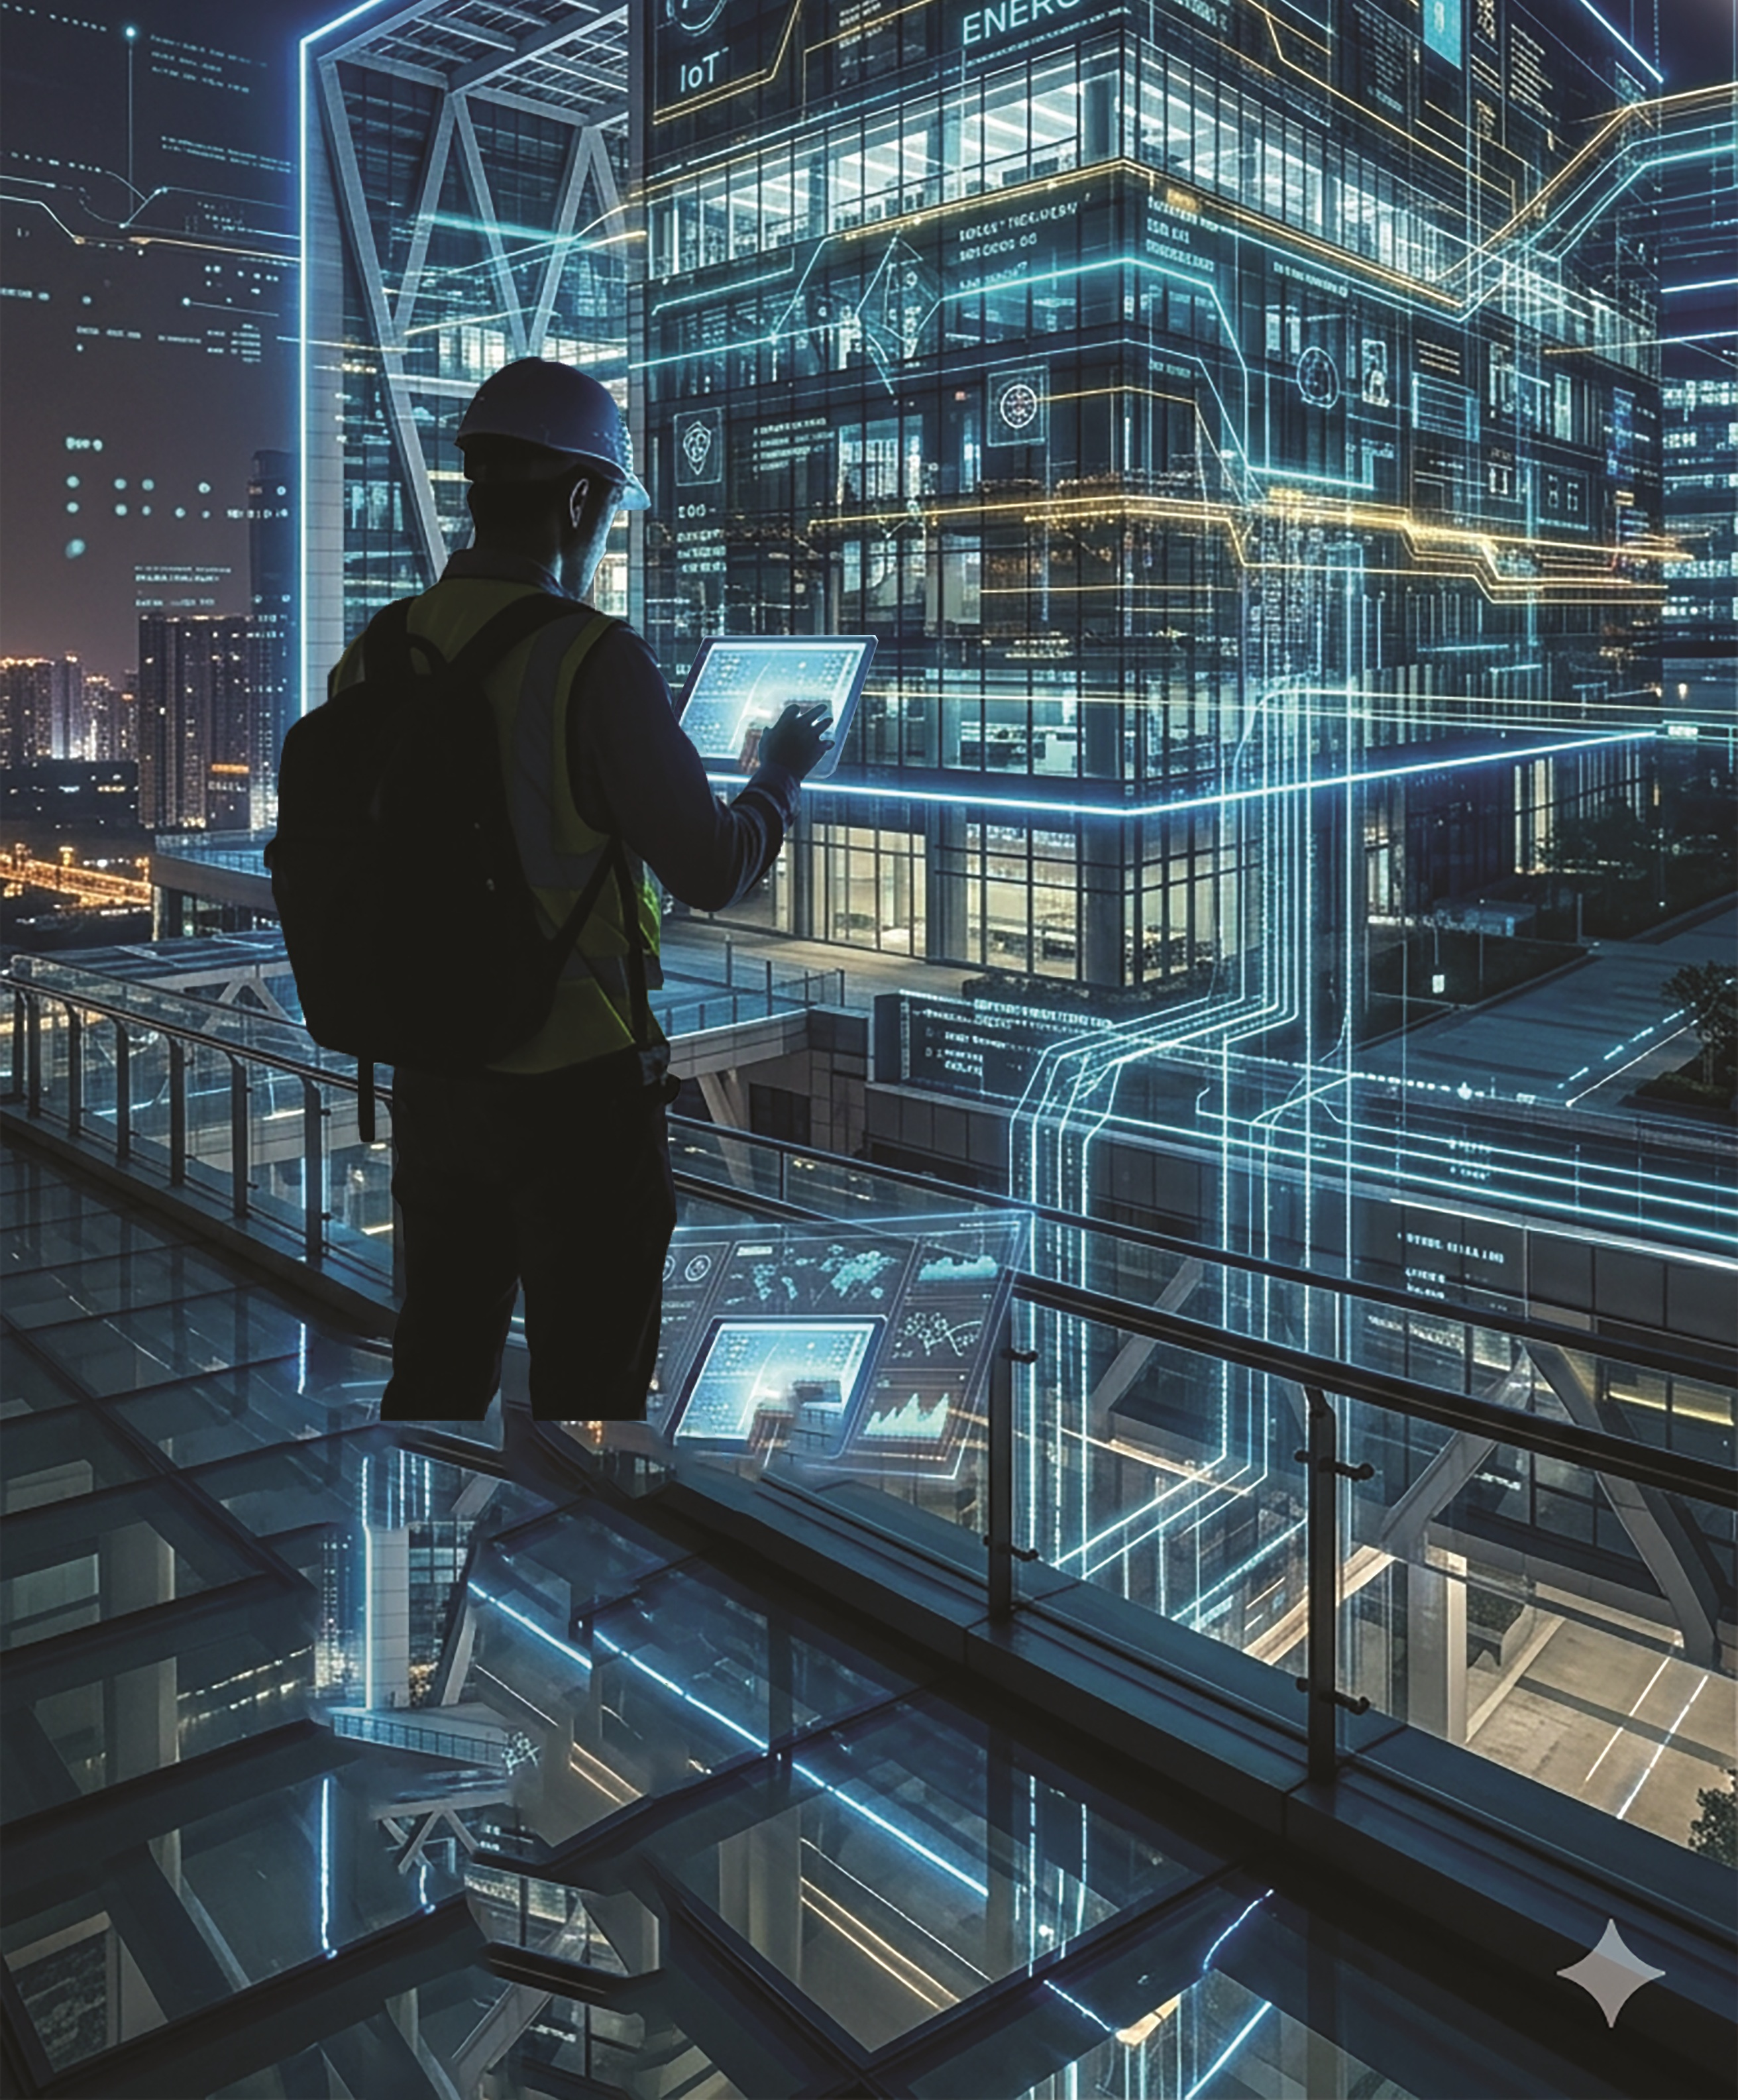
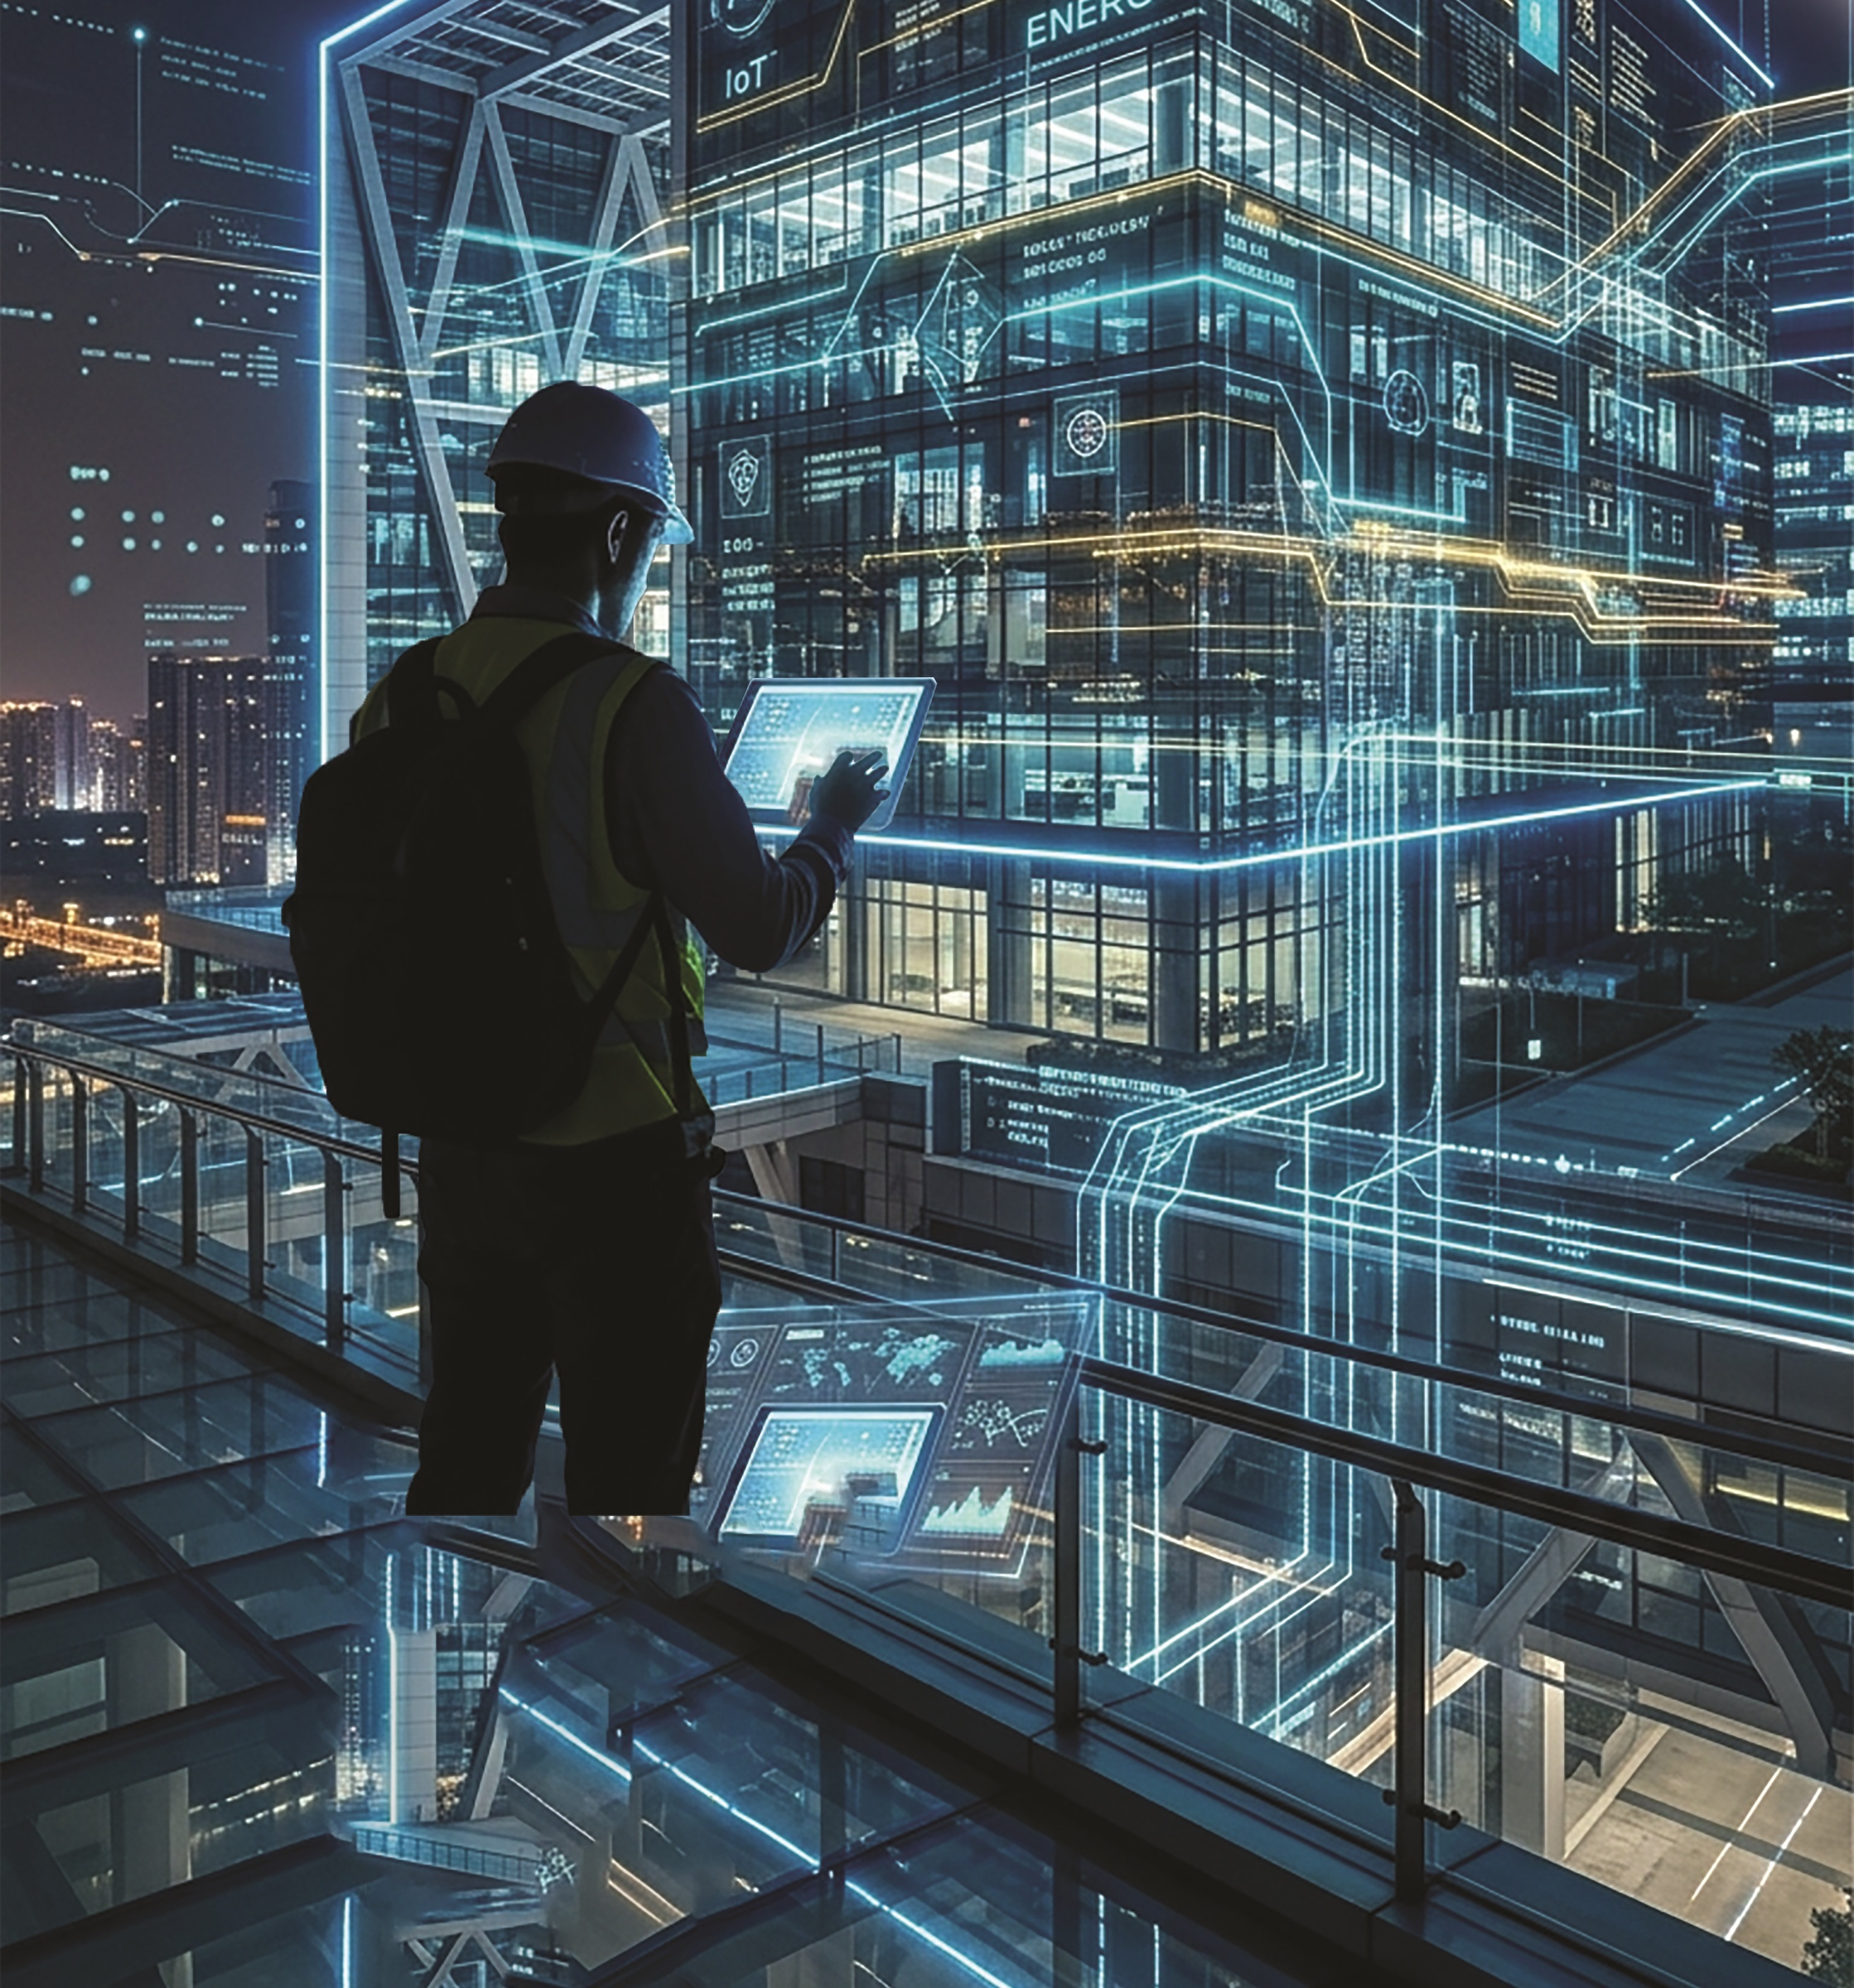
updates

diff --git a/index.html b/index.html
@@ -221,15 +221,14 @@
                              Trusted Partner for <br>
                                 Precision Engineering Solutions <br>
                             </h2>
-                            <p>Energy Inspection Company (EIC) specializes in calibration, testing, inspection, and maintenance services that help businesses achieve accuracy, safety, and operational excellence.
+                           <p>
+                            Energy Inspection Company (EIC) is a trusted provider of calibration, testing, inspection, and maintenance services. We deliver accurate, reliable, and compliant solutions that help industries maintain safe, efficient, and high-performing operations.
+                            </p>
 
-                                <P>Using advanced testing equipment and modern technologies, our experienced engineers provide reliable diagnostics, compliance verification, and technical support for industries across Saudi Arabia.</P>
-
-                               <P> We are committed to reducing operational risks, improving efficiency, and ensuring every project meets international quality and safety standards.</p>
-                            <p class="last-text">In Texas, the state doesn't issue roofing licenses, but I maintain all
-                                <br>
-                                necessary city registrations & follow building codes to the letter.</p>
-                            <a href="about.html"
+                            <p>
+                            Our experienced engineers use advanced equipment and modern technologies to ensure every project meets international quality and safety standards. We are committed to reducing operational risks, improving performance, and delivering dependable engineering solutions.
+                            </p>
+                                                        <a href="about.html"
                                 class="text-decoration-none secondary_btn d-inline-block mt-auto">More About us
                                 <span class=""><img src="assets/images/arrow.png" alt="arrow icon"
                                         class="img-fluid d-inline-block"></span>
@@ -258,7 +257,7 @@
                         <div class="heading-title-con">
                             <span class="d-block text-white">Services</span>
                             <h2 class="text-size-60 text-white">
-                                Services We Provide <br>
+                                What We Do <br>
                             </h2>
                         </div>
                         <!-- col -->
@@ -278,7 +277,7 @@
                     <div class="custom-card">
                         <img src="assets/images/services-img1.jpg" alt="services image" class="img-fluid">
                         <div class="overlay">
-                            <figure><img src="assets/images/service-icon1.png" alt="service icon" class="img-fluid">
+                            <figure><img src="assets/images/gear.svg" alt="service icon" class="img-fluid">
                             </figure>
                             <h3>Calibration Services</h3>
                             <p class="mb-0">Accurate calibration solutions ensuring precision, reliability, and compliance for all measuring instruments.</p>
@@ -293,7 +292,7 @@
                     <div class="custom-card">
                         <img src="assets/images/services-img2.jpg" alt="services image" class="img-fluid">
                         <div class="overlay">
-                            <figure><img src="assets/images/service-icon2.png" alt="service icon" class="img-fluid">
+                            <figure><img src="assets/images/lab.svg" alt="service icon" class="img-fluid">
                             </figure>
                             <h3>Testing Services</h3>
                             <p class="mb-0">Comprehensive testing solutions for quality, safety, and regulatory compliance.
@@ -309,7 +308,7 @@
                     <div class="custom-card">
                         <img src="assets/images/services-img3.jpg" alt="services image" class="img-fluid">
                         <div class="overlay">
-                            <figure><img src="assets/images/service-icon3.png" alt="service icon" class="img-fluid">
+                            <figure><img src="assets/images/check.svg" alt="service icon" class="img-fluid">
                             </figure>
                             <h3>Inspection Services</h3>
                             <p class="mb-0">Professional inspections with detailed reporting to ensure equipment safety and performance.
@@ -325,7 +324,7 @@
                     <div class="custom-card">
                         <img src="assets/images/services-img4.jpg" alt="services image" class="img-fluid">
                         <div class="overlay">
-                            <figure><img src="assets/images/service-icon4.png" alt="service icon" class="img-fluid">
+                            <figure><img src="assets/images/tools.svg" alt="service icon" class="img-fluid">
                             </figure>
                             <h3>Maintenance & Projects</h3>
                             <p class="mb-0">Reliable maintenance and project support to improve efficiency and reduce downtime.
@@ -347,52 +346,7 @@
 
    
     <div class="spacer"></div>
-    <!-- BOOK NOW SECTION --
-    <div class="container-fluid p-0">
-        <div class="padding-rl float-left w-100">
-            <section class="float-left w-100 position-relative book-now-con main-box br-50 bg-lemon">
-                <div class="row">
-                    <div class="col-lg-6 col-md-8">
-                        <div class="heading-title-con mb-0">
-                            <span class="special-text d-block wow fadeInLeft" data-wow-duration="2s"
-                                data-wow-delay="0.05s">Book Now</span>
-                            <h2 class="text-size-120 text-blue wow fadeInRight" data-wow-duration="2s"
-                                data-wow-delay="0.05s">
-                                Start Your
-                                Roofing.</h2>
-                            <p class="text-blue wow fadeInLeft" data-wow-duration="2s" data-wow-delay="0.05s">Fast,
-                                reliable roofing service you can trust—personally handled <br>
-                                from start to finish.</p>
-                            <a href="contact.html" class="font-weight-bold secondary_btn d-inline-block wow fadeInUp"
-                                data-wow-duration="2s" data-wow-delay="0.05s">
-                                Get a Quote <span class=""><img src="assets/images/arrow.png" alt="arrow icon"
-                                        class="img-fluid d-inline-block"></span>
-                            </a>
-                            <a href="contact.html" class="font-weight-bold elementary_btn d-inline-block wow fadeInUp"
-                                data-wow-duration="2s" data-wow-delay="0.05s">
-                                Call Me Now <span class=""><img src="assets/images/arrow.png" alt="arrow icon"
-                                        class="img-fluid d-inline-block"></span>
-                            </a>
-                        </div>
-                        <!-- col --
-                    </div>
-                    <div class="book-now-img">
-                        <figure><img src="assets/images/book-now-vector.png" alt="book now house" class="book-now-img1">
-                        </figure>
-                        <figure><img src="assets/images/mustard-elipse.png" alt="elipse shape"
-                                class="img-fluid position-absolute elipse"></figure>
-                        <!-- book now img --
-                    </div>
-                </div>
-
-            </section>
-            <!-- padding rl --
-        </div>
-        <!-- container fluid --
-    </div>
-    <div class="spacer"></div>
    
-
 
     <!-- TRUSTED BY SECTION -->
 <section class="trusted-con float-left w-100 padding-top padding-bottom bg-sky">
@@ -464,6 +418,60 @@
 
     </div>
 </section>
+<!-- CTA SECTION --
+<div class="padding-rl float-left w-100">
+    <section class="float-left w-100 cta-con position-relative main-box br-50">
+
+        <div class="main-container">
+
+            <div class="row align-items-center">
+
+               
+                <div class="col-lg-8 wow fadeInLeft" data-wow-duration="2s">
+
+                    <span class="special-text text-white d-block">
+                        Let's Work Together
+                    </span>
+
+                    <h2 class="text-size-60 text-white">
+                        Your Trusted Partner for Industrial Solutions
+                    </h2>
+
+                    <p class="text-white mb-0">
+                        Energy Inspection Company is your trusted partner for calibration, testing,
+                        inspection, and maintenance services. We are committed to delivering accurate,
+                        reliable, and efficient solutions tailored to your operational needs. Our expert team
+                        ensures safety, compliance, and performance in every project we handle.
+                    </p>
+
+                </div>
+
+               
+                <div class="col-lg-4 text-lg-end text-center mt-lg-0 mt-4 wow fadeInRight"
+                    data-wow-duration="2s">
+
+                    <a href="contact.html" class="primary-btn d-inline-block">
+                        Contact Us
+                        <span>
+                            <img src="assets/images/arrow.png" alt="arrow" class="img-fluid">
+                        </span>
+                    </a>
+
+                    <a href="services.html" class="secondary_btn d-inline-block mt-3">
+                        Our Services
+                        <span>
+                            <img src="assets/images/arrow.png" alt="arrow" class="img-fluid">
+                        </span>
+                    </a>
+
+                </div>
+
+            </div>
+
+        </div>
+
+    </section>
+</div>
     <!-- FOOTER SECTION -->
     <div class="padding-rl float-left w-100">
         <div class="float-left w-100 footer-con position-relative main-box br-50">
@@ -504,13 +512,13 @@
                         <li><a href="contact.html" class="text-decoration-none">Contact</a></li>
                     </ul>
                     <ul class="list-unstyled mb-0 social-icons">
-                        <li><a href="https://www.facebook.com/" class="text-decoration-none"><i
+                        <li><a href="#" class="text-decoration-none"><i
                                     class="fa-brands fa-facebook-f social-networks" aria-hidden="true"></i></a>
                         </li>
-                        <li><a href="https://www.instagram.com/" class="text-decoration-none"><i
+                        <li><a href="#" class="text-decoration-none"><i
                                     class="fa-brands fa-instagram social-networks" aria-hidden="true"></i></a>
                         </li>
-                        <li><a href="https://www.linkedin.com/" class="text-decoration-none"><i
+                        <li><a href="#" class="text-decoration-none"><i
                                     class="fa-brands fa-linkedin social-networks" aria-hidden="true"></i></a>
                         </li>
                     </ul>

diff --git a/assets/css/style.css b/assets/css/style.css
@@ -5145,7 +5145,7 @@ Chnages
 }
 
 .navbar-brand img {
-    width: 200px;   /* Adjust as needed */
+    width: 300px;   /* Adjust as needed */
     height: auto;
     max-width: 100%;
 }
@@ -5547,3 +5547,91 @@ Chnages
 }
 
 
+/*==================================
+            CTA SECTION
+==================================*/
+
+.cta-con{
+    background:linear-gradient(135deg,#16375f,#0d8ae2);
+    padding:80px 70px;
+    overflow:hidden;
+}
+
+.cta-con::before{
+    content:"";
+    position:absolute;
+    width:320px;
+    height:320px;
+    background:rgba(255,255,255,.06);
+    border-radius:50%;
+    top:-120px;
+    right:-120px;
+}
+
+.cta-con::after{
+    content:"";
+    position:absolute;
+    width:220px;
+    height:220px;
+    background:rgba(255,255,255,.04);
+    border-radius:50%;
+    bottom:-90px;
+    left:-90px;
+}
+
+.cta-con .special-text{
+    margin-bottom:15px;
+}
+
+.cta-con h2{
+    color:#fff;
+    margin-bottom:20px;
+}
+
+.cta-con p{
+    color:rgba(255,255,255,.88);
+    line-height:32px;
+    max-width:700px;
+}
+
+.cta-con .primary-btn,
+.cta-con .secondary_btn{
+    min-width:220px;
+    text-align:center;
+}
+
+.cta-con .secondary_btn{
+    background:#fff;
+    color:#16375f;
+}
+
+@media(max-width:991px){
+
+.cta-con{
+    padding:60px 40px;
+    text-align:center;
+}
+
+.cta-con p{
+    max-width:100%;
+}
+
+}
+
+@media(max-width:767px){
+
+.cta-con{
+    padding:45px 25px;
+}
+
+.cta-con h2{
+    font-size:34px;
+}
+
+.cta-con .primary-btn,
+.cta-con .secondary_btn{
+    width:100%;
+    margin-top:15px;
+}
+
+}

diff --git a/services.html b/services.html
@@ -144,7 +144,7 @@
                         <div class="main-service-box w-100 position-relative">
                             <div class="position-relative">
                                 <figure class="main-service-icon position-absolute"><img
-                                        src="assets/images/main-service-icon1.png" alt="services icon" class="img-fluid">
+                                        src="assets/images/gear.svg" alt="services icon" class="img-fluid">
                                 </figure>
                                 <figure><img src="assets/images/services-img1.jpg" alt="services image"
                                              class="img-fluid"></figure>
@@ -171,7 +171,7 @@
                         <div class="main-service-box w-100 position-relative">
                             <div class="position-relative">
                                 <figure class="main-service-icon position-absolute"><img
-                                        src="assets/images/main-service-icon2.png" alt="services icon" class="img-fluid">
+                                        src="assets/images/lab.svg" alt="services icon" class="img-fluid">
                                 </figure>
                                 <figure><img src="assets/images/services-img2.jpg" alt="services image"
                                              class="img-fluid"></figure>
@@ -195,7 +195,7 @@
                         <div class="main-service-box w-100 position-relative">
                             <div class="position-relative">
                                 <figure class="main-service-icon position-absolute"><img
-                                        src="assets/images/main-service-icon3.png" alt="services icon" class="img-fluid">
+                                        src="assets/images/check.svg" alt="services icon" class="img-fluid">
                                 </figure>
                                 <figure><img src="assets/images/services-img3.jpg" alt="services image"
                                              class="img-fluid"></figure>
@@ -220,7 +220,7 @@
                         <div class="main-service-box w-100 position-relative">
                             <div class="position-relative">
                                 <figure class="main-service-icon position-absolute"><img
-                                        src="assets/images/main-service-icon4.png" alt="services icon" class="img-fluid">
+                                        src="assets/images/tools.svg" alt="services icon" class="img-fluid">
                                 </figure>
                                 <figure><img src="assets/images/services-img4.jpg" alt="services image"
                                              class="img-fluid"></figure>
@@ -295,13 +295,13 @@
                         <li><a href="contact.html" class="text-decoration-none">Contact</a></li>
                     </ul>
                     <ul class="list-unstyled mb-0 social-icons">
-                        <li><a href="https://www.facebook.com/" class="text-decoration-none"><i
+                        <li><a href="#" class="text-decoration-none"><i
                                     class="fa-brands fa-facebook-f social-networks" aria-hidden="true"></i></a>
                         </li>
-                        <li><a href="https://www.instagram.com/" class="text-decoration-none"><i
+                        <li><a href="#" class="text-decoration-none"><i
                                     class="fa-brands fa-instagram social-networks" aria-hidden="true"></i></a>
                         </li>
-                        <li><a href="https://www.linkedin.com/" class="text-decoration-none"><i
+                        <li><a href="#" class="text-decoration-none"><i
                                     class="fa-brands fa-linkedin social-networks" aria-hidden="true"></i></a>
                         </li>
                     </ul>

diff --git a/about.html b/about.html
@@ -143,7 +143,7 @@
                 <div class="about-content-con position-relative p-0">
 
                     <div class="heading-title-con">
-                        <span class="special-text d-block">About Us</span>
+                        <span class="special-text d-block">Who we Are</span>
                         <h2 class="text-size-60">
                             Reliable Calibration, Testing & Inspection Solutions
                         </h2>
@@ -419,13 +419,13 @@
                         <li><a href="contact.html" class="text-decoration-none">Contact</a></li>
                     </ul>
                     <ul class="list-unstyled mb-0 social-icons">
-                        <li><a href="https://www.facebook.com/" class="text-decoration-none"><i
+                        <li><a href="#" class="text-decoration-none"><i
                                     class="fa-brands fa-facebook-f social-networks" aria-hidden="true"></i></a>
                         </li>
-                        <li><a href="https://www.instagram.com/" class="text-decoration-none"><i
+                        <li><a href="#" class="text-decoration-none"><i
                                     class="fa-brands fa-instagram social-networks" aria-hidden="true"></i></a>
                         </li>
-                        <li><a href="https://www.linkedin.com/" class="text-decoration-none"><i
+                        <li><a href="#" class="text-decoration-none"><i
                                     class="fa-brands fa-linkedin social-networks" aria-hidden="true"></i></a>
                         </li>
                     </ul>

diff --git a/contact.html b/contact.html
@@ -292,13 +292,13 @@
                         <li><a href="contact.html" class="text-decoration-none">Contact</a></li>
                     </ul>
                     <ul class="list-unstyled mb-0 social-icons">
-                        <li><a href="https://www.facebook.com/" class="text-decoration-none"><i
+                        <li><a href="#" class="text-decoration-none"><i
                                     class="fa-brands fa-facebook-f social-networks" aria-hidden="true"></i></a>
                         </li>
-                        <li><a href="https://www.instagram.com/" class="text-decoration-none"><i
+                        <li><a href="#" class="text-decoration-none"><i
                                     class="fa-brands fa-instagram social-networks" aria-hidden="true"></i></a>
                         </li>
-                        <li><a href="https://www.linkedin.com/" class="text-decoration-none"><i
+                        <li><a href="#" class="text-decoration-none"><i
                                     class="fa-brands fa-linkedin social-networks" aria-hidden="true"></i></a>
                         </li>
                     </ul>